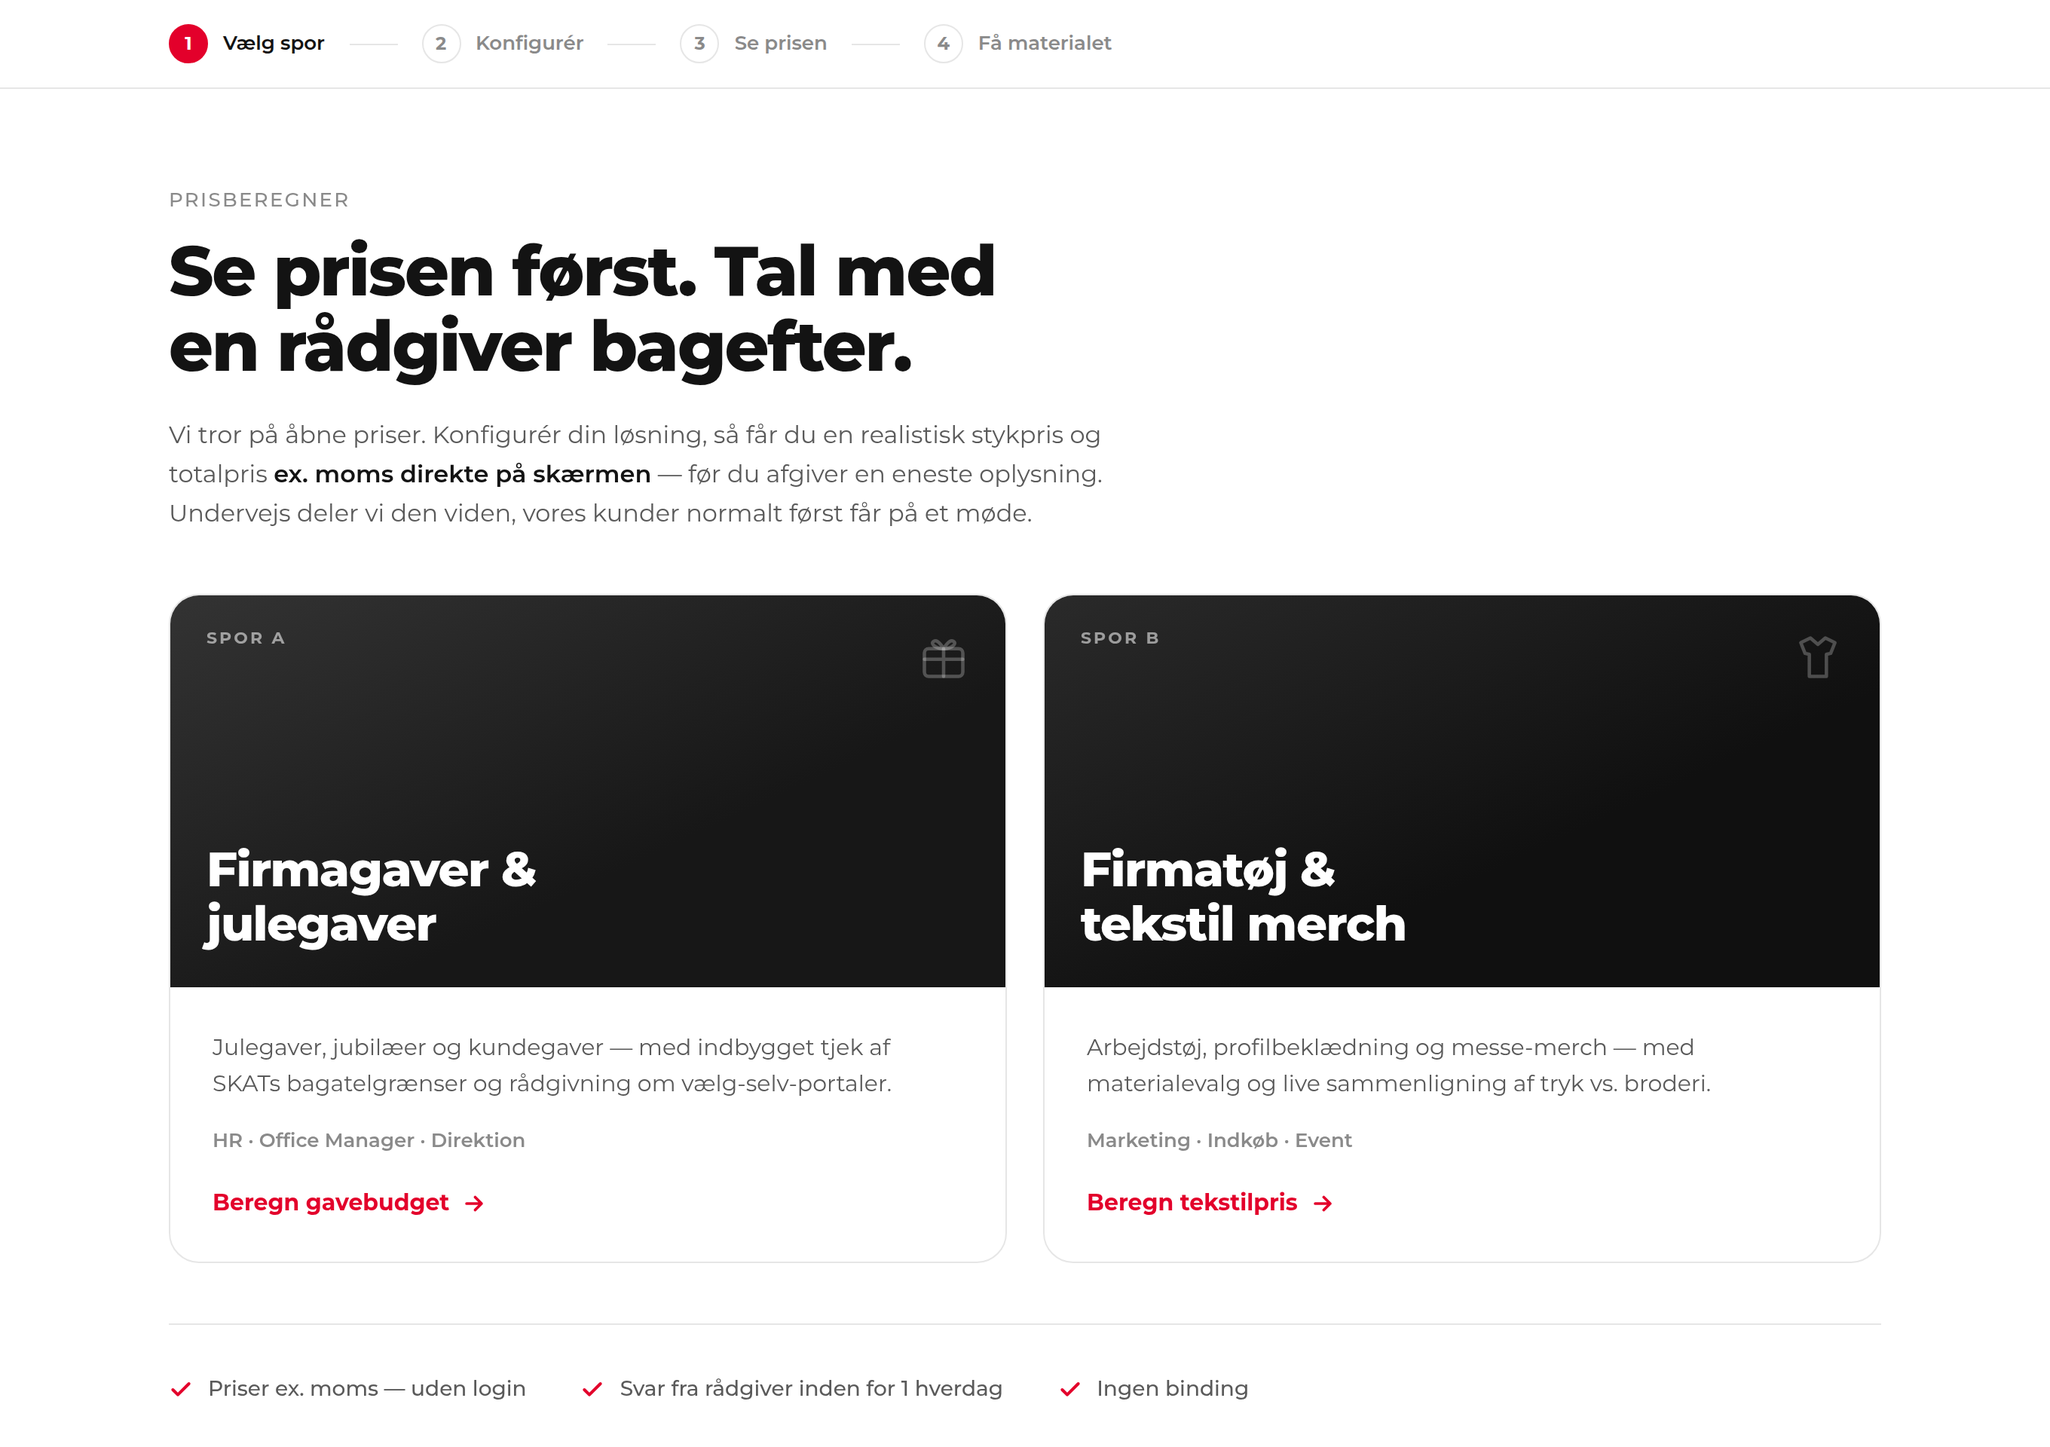
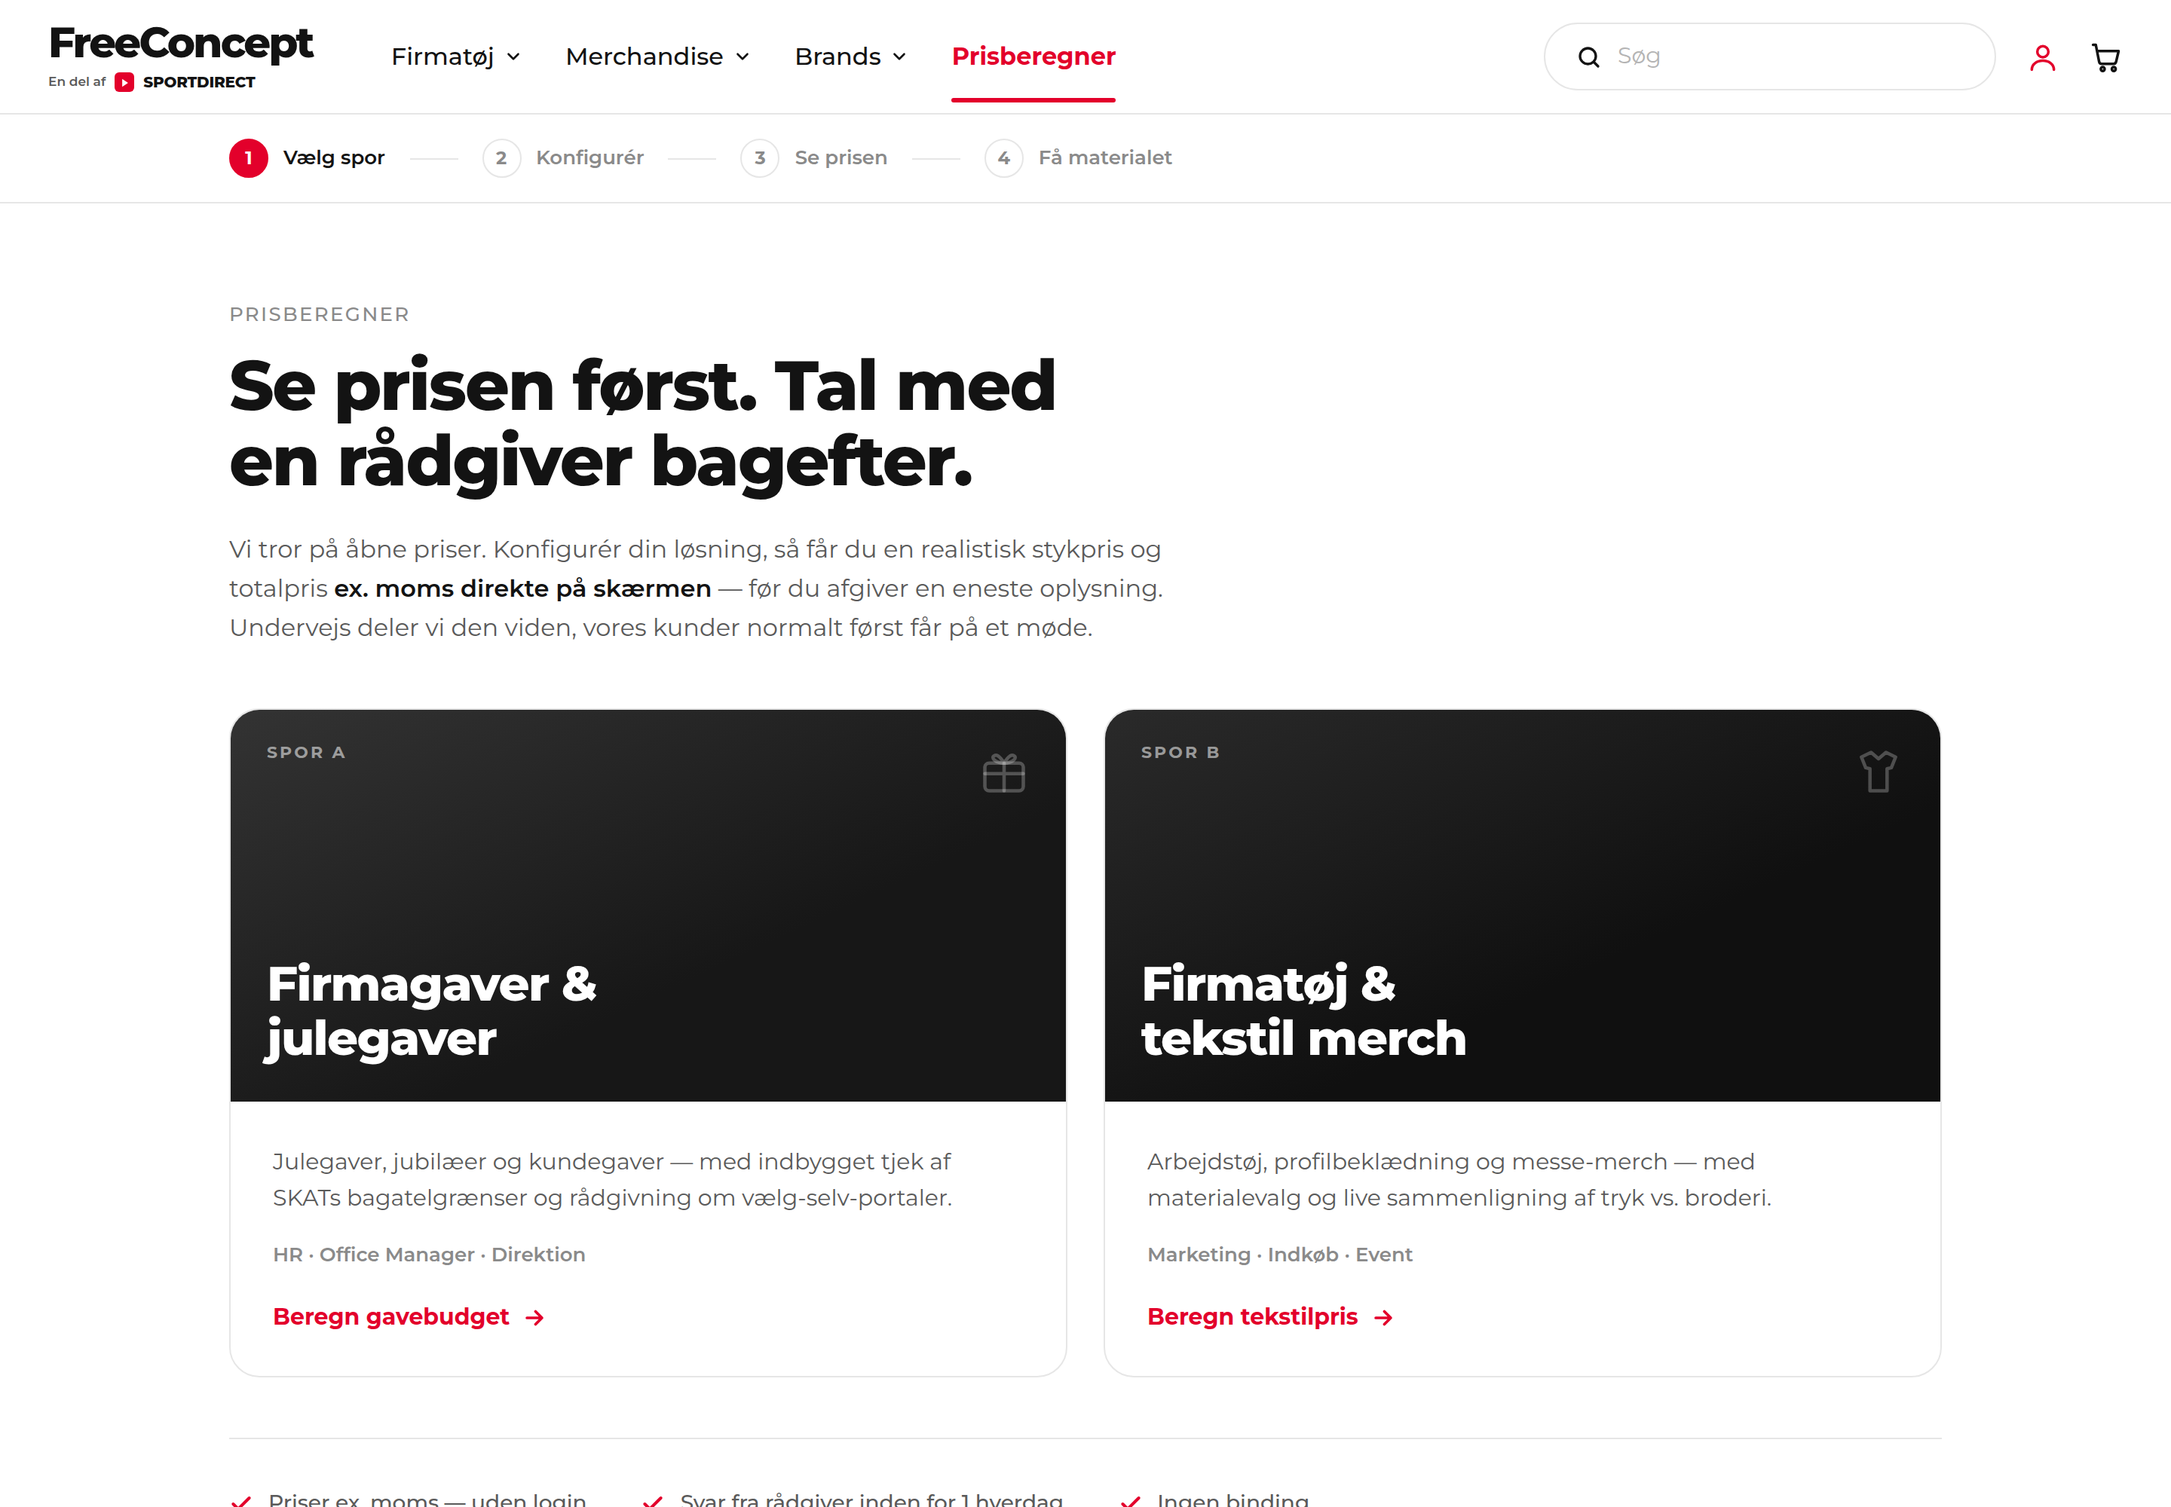
Byg sitets header og footer ind som demo-ramme
Gengiver freeconcept.dk's egen header og footer, så modulet kan vises i
sammenhæng. Modulet ligger i menuen som punktet "Prisberegner", markeret
som den aktuelle side med aria-current og rød understregning.

Header: logo med "En del af SPORTDIRECT", menupunkter med chevron,
pilleformet søgefelt, rødt kontoikon og sort kurv. Menuen folder sammen til
en burgermenu under lg-brydepunktet.

Footer: tre kolonner med kontaktoplysninger, hurtige links og kundeservice,
røde sociale ikoner samt centreret ordmærke.

Rammen kan slås fra med FC_CONFIG.demoChrome = false, og begge blokke er
mærket DEMO-RAMME i markup'en, så de er nemme at slette ved indsættelse på
det rigtige site — ellers ville siden få dobbelt header.

Retter samtidig en fejl, den nye kode afslørede: årstallet blev sat via et
id, der kun fandtes inde i footeren. Med demoChrome slået fra kastede
init'en derfor en fejl, og setStep(1) nåede aldrig at køre. Årstallet sættes
nu via en klasse, og copyright står også i den blivende disclaimer.

Verificeret i begge tilstande: 45 flowtests og 15 tests af rammen kører
grønt, uden konsolfejl.

Claude-Session: https://claude.ai/code/session_01GyKe6R2H1CfhQ2Vd87KwdV

diff --git a/freeconcept-lead-modul.html b/freeconcept-lead-modul.html
@@ -130,6 +130,78 @@ tailwind.config = {
 
 <div id="fc-app">
 
+  <!-- ============================================================
+       DEMO-RAMME: HEADER
+       Gengiver freeconcept.dk's egen header, så modulet kan vises i
+       sammenhæng (fx på GitHub Pages).
+
+       >>> SLET denne blok, når modulet indsættes på freeconcept.dk —
+           headeren står der allerede. Alternativt: sæt
+           FC_CONFIG.demoChrome = false, så fjernes den ved indlæsning.
+
+       TILPAS: tekst-logoet er sat i Montserrat som en tilnærmelse.
+               Erstat det med jeres rigtige logo-SVG, og sæt de
+               rigtige URL'er ind i menupunkterne.
+       ============================================================ -->
+  <header id="fc-site-header" class="border-b border-line bg-white sticky top-0 z-40">
+    <div class="max-w-[1560px] mx-auto px-5 sm:px-8 py-3.5 flex items-center gap-5">
+
+      <a href="/" class="shrink-0" aria-label="FreeConcept forside">
+        <span class="block text-[24px] sm:text-[28px] font-extrabold tracking-[-.05em] text-ink leading-none">FreeConcept</span>
+        <span class="mt-1.5 flex items-center gap-1.5">
+          <span class="text-[8.5px] font-semibold text-ink-500">En del af</span>
+          <span class="w-[13px] h-[13px] rounded-[3px] bg-brand grid place-items-center shrink-0">
+            <svg width="6" height="6" viewBox="0 0 8 8" fill="#fff"><path d="M1.4 0.5 6.6 4 1.4 7.5z"/></svg>
+          </span>
+          <span class="text-[10px] font-extrabold tracking-[-.01em] text-ink leading-none">SPORTDIRECT</span>
+        </span>
+      </a>
+
+      <nav class="hidden lg:flex items-center gap-7 ml-8" aria-label="Hovedmenu">
+        <a href="#" class="flex items-center gap-1.5 text-[16px] font-medium text-ink hover:text-brand transition-colors">
+          Firmatøj
+          <svg width="13" height="13" viewBox="0 0 24 24" fill="none" stroke="currentColor" stroke-width="2.4" stroke-linecap="round" stroke-linejoin="round"><path d="m6 9 6 6 6-6"/></svg>
+        </a>
+        <a href="#" class="flex items-center gap-1.5 text-[16px] font-medium text-ink hover:text-brand transition-colors">
+          Merchandise
+          <svg width="13" height="13" viewBox="0 0 24 24" fill="none" stroke="currentColor" stroke-width="2.4" stroke-linecap="round" stroke-linejoin="round"><path d="m6 9 6 6 6-6"/></svg>
+        </a>
+        <a href="#" class="flex items-center gap-1.5 text-[16px] font-medium text-ink hover:text-brand transition-colors">
+          Brands
+          <svg width="13" height="13" viewBox="0 0 24 24" fill="none" stroke="currentColor" stroke-width="2.4" stroke-linecap="round" stroke-linejoin="round"><path d="m6 9 6 6 6-6"/></svg>
+        </a>
+        <!-- Modulet som selvstændigt menupunkt. aria-current markerer, at vi står på siden. -->
+        <a href="#" aria-current="page" class="relative text-[16px] font-bold text-brand">
+          Prisberegner
+          <span class="absolute -bottom-[18px] left-0 right-0 h-[3px] bg-brand rounded-full"></span>
+        </a>
+      </nav>
+
+      <div class="ml-auto flex items-center gap-3 sm:gap-5">
+        <label class="hidden md:flex items-center gap-2.5 border border-line rounded-full px-5 py-2.5 w-[220px] xl:w-[300px] focus-within:border-ink transition-colors">
+          <svg class="shrink-0 text-ink" width="18" height="18" viewBox="0 0 24 24" fill="none" stroke="currentColor" stroke-width="2.2" stroke-linecap="round"><circle cx="11" cy="11" r="7"/><path d="m20 20-3.5-3.5"/></svg>
+          <input type="search" placeholder="Søg" aria-label="Søg" class="w-full bg-transparent text-[15px] text-ink placeholder:text-ink-300 focus:outline-none">
+        </label>
+        <a href="#" aria-label="Min konto" class="text-brand hover:opacity-70 transition-opacity">
+          <svg width="22" height="22" viewBox="0 0 24 24" fill="none" stroke="currentColor" stroke-width="1.9" stroke-linecap="round" stroke-linejoin="round"><circle cx="12" cy="8" r="4"/><path d="M4 21c0-4 3.6-6.5 8-6.5s8 2.5 8 6.5"/></svg>
+        </a>
+        <a href="#" aria-label="Kurv" class="text-ink hover:opacity-70 transition-opacity">
+          <svg width="22" height="22" viewBox="0 0 24 24" fill="none" stroke="currentColor" stroke-width="1.9" stroke-linecap="round" stroke-linejoin="round"><path d="M2.5 3h2l2.4 12.2a2 2 0 0 0 2 1.6h8.3a2 2 0 0 0 2-1.55L21 7.5H6"/><circle cx="9.5" cy="20.5" r="1.4"/><circle cx="17.5" cy="20.5" r="1.4"/></svg>
+        </a>
+        <button id="fc-burger" class="lg:hidden text-ink" aria-label="Åbn menu" aria-expanded="false">
+          <svg width="24" height="24" viewBox="0 0 24 24" fill="none" stroke="currentColor" stroke-width="2.2" stroke-linecap="round"><path d="M3 6h18M3 12h18M3 18h18"/></svg>
+        </button>
+      </div>
+    </div>
+
+    <nav id="fc-mobilmenu" class="fc-hide lg:hidden border-t border-line px-5 py-3" aria-label="Mobilmenu">
+      <a href="#" class="block py-2.5 text-[16px] font-medium text-ink">Firmatøj</a>
+      <a href="#" class="block py-2.5 text-[16px] font-medium text-ink">Merchandise</a>
+      <a href="#" class="block py-2.5 text-[16px] font-medium text-ink">Brands</a>
+      <a href="#" aria-current="page" class="block py-2.5 text-[16px] font-bold text-brand">Prisberegner</a>
+    </nav>
+  </header>
+
   <!-- ======================= TRININDIKATOR ======================= -->
   <!-- Trinindikatoren er bevidst IKKE sticky: freeconcept.dk har selv en fastlåst
        header, og to klæbende bjælker oven på hinanden ville dække indholdet. -->
@@ -699,10 +771,80 @@ tailwind.config = {
 
   </main>
 
-  <footer class="border-t border-line">
+  <div class="border-t border-line">
     <div class="max-w-[1200px] mx-auto px-5 sm:px-8 py-8 text-[13px] text-ink-400 leading-relaxed">
       Alle priser er vejledende og ex. moms. Skatteoplysninger er generel information for indkomståret 2026 og
-      erstatter ikke rådgivning fra din revisor. © <span id="fc-year"></span> Freeconcept.
+      erstatter ikke rådgivning fra din revisor. © <span class="fc-year"></span> Freeconcept.
+    </div>
+  </div>
+
+  <!-- ============================================================
+       DEMO-RAMME: FOOTER
+       Gengiver freeconcept.dk's egen footer.
+
+       >>> SLET denne blok, når modulet indsættes på freeconcept.dk —
+           footeren står der allerede. Alternativt: sæt
+           FC_CONFIG.demoChrome = false.
+
+       TILPAS: menupunkterne peger på "#". Sæt jeres rigtige URL'er ind.
+       ============================================================ -->
+  <footer id="fc-site-footer" class="bg-[#333333] text-white">
+    <div class="max-w-[1280px] mx-auto px-6 sm:px-10 pt-14 pb-10">
+      <div class="grid gap-12 sm:grid-cols-2 lg:grid-cols-3">
+
+        <div>
+          <h2 class="text-[15px] font-extrabold tracking-[.11em] uppercase text-white">Kontakt</h2>
+          <address class="mt-7 not-italic text-[15.5px] leading-[2.1] text-white/85">
+            Højbyvej 60<br>
+            5260 Odense S
+          </address>
+          <p class="mt-6 text-[15.5px] text-white/85">
+            <a href="tel:+4565959837" class="hover:text-white transition-colors">+45 65 95 98 37</a>
+          </p>
+          <p class="mt-6 text-[15.5px] text-white/85">
+            <a href="mailto:info@freeconcept.dk" class="hover:text-white transition-colors">info@freeconcept.dk</a>
+          </p>
+          <p class="mt-6 text-[15.5px] text-white/85">CVR: 29 61 78 99</p>
+
+          <div class="mt-8 flex items-center gap-3.5">
+            <a href="#" aria-label="Facebook" class="w-11 h-11 rounded-[10px] bg-brand grid place-items-center hover:bg-brand-dark transition-colors">
+              <svg width="19" height="19" viewBox="0 0 24 24" fill="#fff"><path d="M15.12 5.32H17V2.14A26.11 26.11 0 0 0 14.26 2C11.54 2 9.68 3.66 9.68 6.7v2.62H6.61v3.56h3.07V22h3.68v-9.12h3.06l.46-3.56h-3.52V7.05c0-1.03.28-1.73 1.76-1.73Z"/></svg>
+            </a>
+            <a href="#" aria-label="Instagram" class="w-11 h-11 rounded-[10px] bg-brand grid place-items-center hover:bg-brand-dark transition-colors">
+              <svg width="19" height="19" viewBox="0 0 24 24" fill="none" stroke="#fff" stroke-width="2"><rect x="3" y="3" width="18" height="18" rx="5"/><circle cx="12" cy="12" r="4"/><circle cx="17.3" cy="6.7" r="1.15" fill="#fff" stroke="none"/></svg>
+            </a>
+            <a href="#" aria-label="LinkedIn" class="w-11 h-11 rounded-[10px] bg-brand grid place-items-center hover:bg-brand-dark transition-colors">
+              <svg width="19" height="19" viewBox="0 0 24 24" fill="#fff"><path d="M4.98 3.5a2.5 2.5 0 1 1 0 5 2.5 2.5 0 0 1 0-5zM3 9h4v12H3zM10 9h3.8v1.7h.05c.53-1 1.83-2.05 3.76-2.05 4.02 0 4.76 2.64 4.76 6.08V21h-4v-5.5c0-1.31-.02-3-1.83-3-1.83 0-2.11 1.43-2.11 2.9V21h-4z"/></svg>
+            </a>
+          </div>
+        </div>
+
+        <div>
+          <h2 class="text-[15px] font-extrabold tracking-[.11em] uppercase text-white">Hurtige links</h2>
+          <ul class="mt-7 space-y-[26px] text-[15.5px] text-white/85">
+            <li><a href="#" class="hover:text-white transition-colors">Om os</a></li>
+            <li><a href="#" class="hover:text-white transition-colors">Kontakt os</a></li>
+            <li><a href="#" class="hover:text-white transition-colors">Accessories</a></li>
+            <li><a href="https://julegaveshoppen.dk" class="hover:text-white transition-colors">julegaveshoppen.dk</a></li>
+          </ul>
+        </div>
+
+        <div>
+          <h2 class="text-[15px] font-extrabold tracking-[.11em] uppercase text-white">Kunde service</h2>
+          <ul class="mt-7 space-y-[26px] text-[15.5px] text-white/85">
+            <li><a href="#" class="hover:text-white transition-colors">Handelsbetingelser</a></li>
+            <li><a href="#" class="hover:text-white transition-colors">Smiley-rapport</a></li>
+            <li><a href="#" class="hover:text-white transition-colors">Kontakt os</a></li>
+            <li><a href="#" class="hover:text-white transition-colors">Cookiepolitik</a></li>
+          </ul>
+        </div>
+      </div>
+
+      <div class="mt-12 pt-10 border-t border-white/25 text-center">
+        <p class="text-[34px] sm:text-[42px] font-extrabold tracking-[-.05em] text-white/90 leading-none">FreeConcept</p>
+        <p class="mt-3 text-[17px] text-white/70">Firmatøj &amp; Merchandise</p>
+        <p class="mt-6 text-[12.5px] text-white/40">© <span class="fc-year"></span> Freeconcept. Alle rettigheder forbeholdes.</p>
+      </div>
     </div>
   </footer>
 </div>
@@ -723,7 +865,12 @@ const FC_CONFIG = {
   // Sæt jeres endpoint her (Formspree, HubSpot, WP admin-ajax, eget API).
   // Er den tom, kører modulet i demo-tilstand og logger leadet i konsollen.
   endpoint: '',
-  vatRate: 0.25
+  vatRate: 0.25,
+
+  // Header og footer er kun med, så demoen kan vises i sammenhæng.
+  // Sæt til false (eller slet de to blokke mærket DEMO-RAMME i markup'en),
+  // når modulet indsættes på freeconcept.dk.
+  demoChrome: true
 };
 
 const FC_PRICING = {
@@ -1518,10 +1665,22 @@ function reset(){
 $('#fc-restart').addEventListener('click', reset);
 $('#fc-again').addEventListener('click', reset);
 
+// Demo-ramme: fjernes helt, hvis modulet kører på det rigtige site
+if (!FC_CONFIG.demoChrome) {
+  ['#fc-site-header','#fc-site-footer'].forEach(sel => { const el = $(sel); if (el) el.remove(); });
+} else {
+  const burger = $('#fc-burger'), mobil = $('#fc-mobilmenu');
+  if (burger && mobil) burger.addEventListener('click', () => {
+    const åben = mobil.classList.toggle('fc-hide') === false;
+    burger.setAttribute('aria-expanded', String(åben));
+    burger.setAttribute('aria-label', åben ? 'Luk menu' : 'Åbn menu');
+  });
+}
+
 // Init
 $('#fc-link-textile').href = FC_LINKS.textile;
 $('#fc-link-merch').href   = FC_LINKS.merch;
-$('#fc-year').textContent  = new Date().getFullYear();
+$$('.fc-year').forEach(el => el.textContent = new Date().getFullYear());
 setStep(1);
 
 })();

diff --git a/README.md b/README.md
@@ -30,6 +30,8 @@ Første udgivelse tager et minut eller to.
 ## Sådan ser det ud
 
 ### Trin 1 — vælg spor
+Sitets egen header og footer er bygget med som **demo-ramme**, så modulet kan vises
+i sammenhæng. Modulet ligger i menuen som punktet *Prisberegner*.
 ![Trin 1: vælg mellem firmagaver og firmatøj](docs/screenshots/01-vaelg-spor.png)
 
 ### Trin 2 — konfigurator med ekspertviden
@@ -49,6 +51,9 @@ Alle tre forædlingsmetoder regnes på kundens eget antal, så break-even bliver
 
 ### Mobil
 <img src="docs/screenshots/06-mobil.png" alt="Modulet på mobil med live skattestatus" width="380">
+
+### Footer
+![Sitets footer med kontakt, hurtige links og kundeservice](docs/screenshots/07-footer.png)
 
 ## Flow
 
@@ -84,6 +89,12 @@ er fastlåst, og to klæbende bjælker ville dække indholdet.
 
 ## Indsæt på hjemmesiden
 
+> **Fjern demo-rammen først.** Header og footer i filen er kun med, så demoen kan
+> vises i sammenhæng. På freeconcept.dk står de der allerede, og to headere oven
+> på hinanden ser ud som en fejl. Slet de to blokke mærket `DEMO-RAMME` i markup'en
+> — eller sæt `demoChrome: false` i `FC_CONFIG`, så fjernes de ved indlæsning.
+> At slette dem er det reneste; med `false` kan de nå at blinke kortvarigt forbi.
+
 **WordPress (anbefalet):** opret en ny side, tilføj blokken *Custom HTML* /
 *Egen HTML* og indsæt hele filens indhold. Modulet har sit eget navnerum
 (`#fc-app` og klasser med `fc-`-præfiks), så det kolliderer ikke med temaets styles.
@@ -109,6 +120,7 @@ Alt, der normalt skal justeres, ligger samlet øverst i `<script>`-blokken:
 | `FC_LINKS` | URL'er til jeres kategorisider. Vises på kvitteringen, så kunden kan kigge videre. Står som `/firmatoj` og `/merchandise` og skal rettes til jeres faktiske stier. |
 | `KB` | Teksterne i ekspert-videnboksene. |
 | `FC_PRICING.tax2026` | Beløbsgrænser for julegave, bagatelgrænse, reklameartikel og jubilæumsgratiale. |
+| `FC_CONFIG.demoChrome` | `true` viser sitets header og footer (til demoen). Sæt til `false` på det rigtige site. |
 | `tailwind.config` | Farvepaletten. |
 
 ### Leadet
